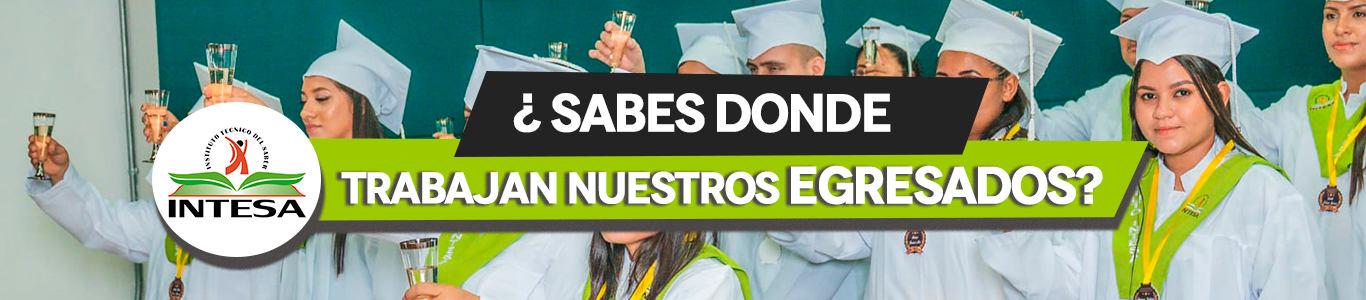
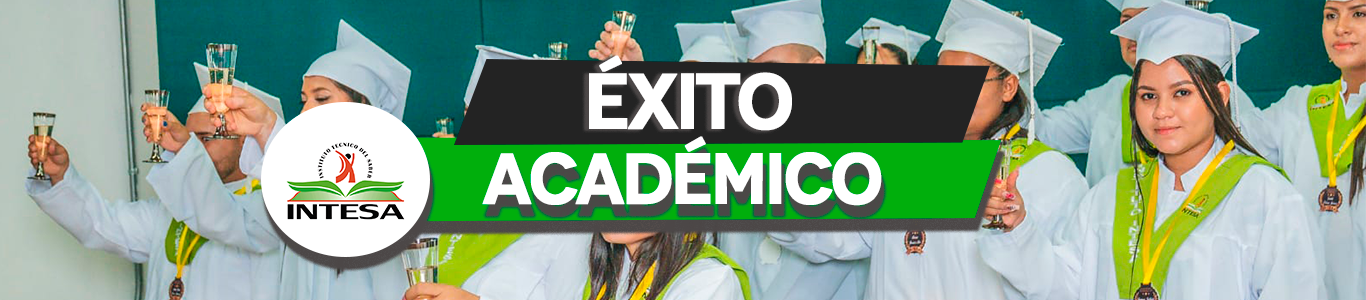
Subiendo

Changed region(s): [[0.0922, 0.18, 0.8609, 0.9]]

diff --git a/routes/web.php b/routes/web.php
@@ -22,7 +22,7 @@ Route::get('/legalidad', [PageController::class, 'Legalidad'])->name('pages.lega
 Route::get('/convenios', [PageController::class, 'Convenios'])->name('pages.convenios');
 Route::get('/contactos', [PageController::class, 'Contactos'])->name('pages.contactos');
 Route::get('/historia', [PageController::class, 'Historia'])->name('pages.historia');
-Route::get('/egresados', [PageController::class, 'Egresados'])->name('pages.egresados');
+Route::get('/exito-academico', [PageController::class, 'Egresados'])->name('pages.egresados');
 Route::get('/programa-presencial/tecnicos-laborales', [PageController::class, 'Tecnico_Presencial'])->name('pages.presencial.tecnico');
 Route::get('/programa-presencial/certficaciones', [PageController::class, 'Curso_Presencial'])->name('pages.presencial.curso');
 Route::get('/programa-presencial/diplomados', [PageController::class, 'Diplomados'])->name('pages.presencial.diplomados');

diff --git a/resources/views/layout/navbar/navbar.blade.php b/resources/views/layout/navbar/navbar.blade.php
@@ -43,7 +43,7 @@
                                     <a href="{{ route('pages.quienes_somos') }}" class="dropdown-item">¿Quienes Somos?</a>
                                     <a href="{{ route('pages.mision_vision') }}" class="dropdown-item">Misión & Visión</a>
                                     <a href="{{ route('pages.convenios') }}" class="dropdown-item">Convenios</a>
-                                    <a href="{{ route('pages.egresados') }}" class="dropdown-item">Egresados</a>
+                                    <a href="{{ route('pages.egresados') }}" class="dropdown-item">Éxito Académico</a>
                                 </div>
                             </div>
 

diff --git a/resources/views/pages/egresados.blade.php b/resources/views/pages/egresados.blade.php
@@ -11,7 +11,8 @@
       <!-- Blog Start -->
       <div class="container-fluid ">
         <div class="container py-2">
-            <h4 class="mb-5">Lista de Empresas donde trabajan nuestros egresados!</h4>
+            <h4 class="mb-5">Éxito Académico</h4>
+            <p>A continuación, se en</p>
             <div class="row">
                 <div class="col-lg-12">
                     <div class="row pb-3">
